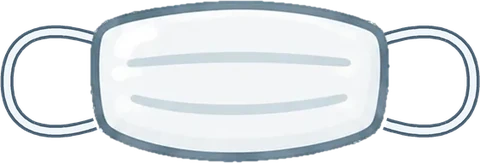
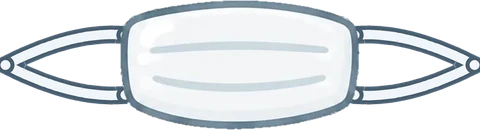
顔のかざり:舌・ひげの位置、まつげは目が開いたフロリに、マスクと眼帯のひも(未公開。ゲームには未反映)

Changed region(s): [[0.0, 0.0, 0.5, 1.0], [0.5312, 0.0, 1.0, 1.0]]

diff --git a/tools/illust/export.py b/tools/illust/export.py
@@ -67,9 +67,10 @@ THR = 244
 PAD = 10
 # 左右1組の かざりの、2つの間のあき(1つの はば に対する割合)。目や ほっぺの位置に合わせて、あけなおす
 GAPS = {"fp_spiral": 0.82, "fp_hearteyes": 0.75, "fp_lashes": 0.75, "fp_freckles": 1.8, "fp_whiskers": 1.53}
-STRAPS = {"fp_mask"}  # マスクに、耳ひもを つける
+ANCHORS = {}  # ひもを つけた絵の、「もとの絵の中心」の場所(割合)。ゲームで位置をきめるとき使う(assets/illust/fp_anchor.json)
 MAXSIDE = 160
-MAXSIDE_FACE = 480  # 顔のかざり(fp_)は、横長の組もあるので、大きめに
+MAXSIDE_FACE = 480
+MAXSIDE_WIDE = {"fp_eyepatch": 900}  # ひもで、横に長い絵  # 顔のかざり(fp_)は、横長の組もあるので、大きめに
 
 
 def boxes_of(name, im):
@@ -172,44 +173,75 @@ def respace(img, gap_ratio):
     return out
 
 
-def add_straps(img, spread=0.30):
-    """マスクの両わきに、耳ひも(ふくらんだ輪)を つける。マスクの本体は、ひもの上にのせる"""
+def _bez(p0, c1, c2, p3, n=40):
+    pts = []
+    for i in range(n + 1):
+        t = i / n
+        pts.append(tuple((1 - t) ** 3 * p0[j] + 3 * (1 - t) ** 2 * t * c1[j] + 3 * (1 - t) * t * t * c2[j] + t ** 3 * p3[j] for j in range(2)))
+    return pts
+
+
+def _strap_lines(canvas, paths, k, W):
+    """ひも(線の色のふち+うすい色の中)を、paths(点の列)にそって、描く。太さは、絵の はば(W)に合わせる"""
     from PIL import ImageDraw
-    k = 4  # 大きく描いて、縮める(なめらかに)
-    W, H = img.size
-    side = int(W * spread)
-    canvas = Image.new("RGBA", ((W + 2 * side) * k, H * k), (0, 0, 0, 0))
     d = ImageDraw.Draw(canvas)
+    wo, wi = 0.075 * W * k, 0.04 * W * k
+    for path in paths:
+        d.line(path, fill=OUTLINE + (255,), width=int(wo), joint="curve")
+    for path in paths:
+        d.line(path, fill=(240, 245, 249, 255), width=int(wi), joint="curve")
+    for path in paths:  # 先を丸く
+        for x, y in (path[0], path[-1]):
+            d.ellipse((x - wo / 2, y - wo / 2, x + wo / 2, y + wo / 2), fill=OUTLINE + (255,))
+            d.ellipse((x - wi / 2, y - wi / 2, x + wi / 2, y + wi / 2), fill=(240, 245, 249, 255))
 
-    def bez(p0, c1, c2, p3, n=40):
-        pts = []
-        for i in range(n + 1):
-            t = i / n
-            pts.append(tuple((1 - t) ** 3 * p0[j] + 3 * (1 - t) ** 2 * t * c1[j] + 3 * (1 - t) * t * t * c2[j] + t ** 3 * p3[j] for j in range(2)))
-        return pts
 
+def strap_mask(img, reach=0.5):
+    """マスクの両わきに、耳(ヘルメットのわき)まで のびる、耳ひもを つける(上と下の角から、耳の1点へ。「<」の形)。本体は、ひもの上"""
+    k = 4
+    W, H = img.size
+    L = int(W * reach)
+    canvas = Image.new("RGBA", ((W + 2 * L) * k, H * k), (0, 0, 0, 0))
+    paths = []
     for sign in (-1, 1):
-        ex = (side + (W if sign > 0 else 0) + (-6 if sign > 0 else 6)) * k  # マスクのふちの すこし内がわから出る
-        sx = sign
-        top, bot, mid = H * 0.24 * k, H * 0.76 * k, H * 0.5 * k
-        out = side * k * 0.98
-        path = bez((ex, top), (ex + sx * out * 0.55, top - H * 0.10 * k), (ex + sx * out, mid - H * 0.30 * k), (ex + sx * out, mid))
-        path += bez((ex + sx * out, mid), (ex + sx * out, mid + H * 0.30 * k), (ex + sx * out * 0.55, bot + H * 0.10 * k), (ex, bot))
-        d.line(path, fill=OUTLINE + (255,), width=int(15 * k), joint="curve")
-    for sign in (-1, 1):
-        pass
-    # 中のしろい線(ひもの色)を、同じ道すじで、細く かさねる
-    for sign in (-1, 1):
-        ex = (side + (W if sign > 0 else 0) + (-6 if sign > 0 else 6)) * k
-        sx = sign
-        top, bot, mid = H * 0.24 * k, H * 0.76 * k, H * 0.5 * k
-        out = side * k * 0.98
-        path = bez((ex, top), (ex + sx * out * 0.55, top - H * 0.10 * k), (ex + sx * out, mid - H * 0.30 * k), (ex + sx * out, mid))
-        path += bez((ex + sx * out, mid), (ex + sx * out, mid + H * 0.30 * k), (ex + sx * out * 0.55, bot + H * 0.10 * k), (ex, bot))
-        d.line(path, fill=(240, 245, 249, 255), width=int(8 * k), joint="curve")
-    canvas = canvas.resize((W + 2 * side, H), Image.LANCZOS)
-    canvas.alpha_composite(img, (side, 0))
-    return canvas
+        edge = (L + (W - 8 if sign > 0 else 8)) * k
+        ear = (edge + sign * (L - 8) * k + sign * 8 * k, H * 0.5 * k)
+        top, bot = (edge, H * 0.27 * k), (edge, H * 0.73 * k)
+        paths.append(_bez(top, (edge + sign * L * 0.35 * k, H * 0.24 * k), (edge + sign * L * 0.7 * k, H * 0.36 * k), ear))
+        paths.append(_bez(bot, (edge + sign * L * 0.35 * k, H * 0.76 * k), (edge + sign * L * 0.7 * k, H * 0.64 * k), ear))
+    _strap_lines(canvas, paths, k, W)
+    canvas = canvas.resize((W + 2 * L, H), Image.LANCZOS)
+    canvas.alpha_composite(img, (L, 0))
+    return canvas, (0.5, 0.5)
+
+
+def strap_eyepatch(img, left=2.4, right=0.6, rise=0.75):
+    """眼帯に、ひもを つける:右(画面の右がわ)は、耳へ。左は、ひたいを ななめに わたって、反対がわの耳へ。
+    戻り値の2つ目は、眼帯の中心が、絵のどこ(はば・高さの割合)にあるか"""
+    k = 4
+    W, H = img.size
+    Ll, Lr, Up = int(W * left), int(W * right), int(W * rise)
+    Wc, Hc = W + Ll + Lr, H + Up
+    canvas = Image.new("RGBA", (Wc * k, Hc * k), (0, 0, 0, 0))
+    px, py = Ll, Up  # 眼帯のおき場所(左上)
+    cx, cy = (px + W / 2) * k, (py + H / 2) * k
+    paths = []
+    # 右: 眼帯の右上と右下から、耳へ(1点)
+    ex = (px + W + Lr - 6) * k
+    ey = cy
+    paths.append(_bez(((px + W - 6) * k, (py + H * 0.30) * k), ((px + W + Lr * 0.4) * k, (py + H * 0.24) * k), ((px + W + Lr * 0.7) * k, cy - H * 0.06 * k), (ex, ey)))
+    paths.append(_bez(((px + W - 6) * k, (py + H * 0.70) * k), ((px + W + Lr * 0.4) * k, (py + H * 0.76) * k), ((px + W + Lr * 0.7) * k, cy + H * 0.06 * k), (ex, ey)))
+    # 左: 眼帯の左上から、ひたい(まゆげの上)を とおって、左の耳へ(はじめ ななめに のぼって、そのあと、ほぼ水平)
+    sx, sy = (px + 6) * k, (py + H * 0.22) * k
+    tx, ty = 6 * k, (Up * 0.30) * k
+    paths.append(_bez((sx, sy), (sx - Ll * 0.12 * k, sy - Up * 0.75 * k), (tx + Ll * 0.55 * k, ty - Up * 0.05 * k), (tx, ty), n=60))
+    _strap_lines(canvas, paths, k, W)
+    canvas = canvas.resize((Wc, Hc), Image.LANCZOS)
+    canvas.alpha_composite(img, (px, py))
+    return canvas, ((px + W / 2) / Wc, (py + H / 2) / Hc)
+
+
+STRAPS = {"fp_mask": strap_mask, "fp_eyepatch": strap_eyepatch}  # ひもを つける
 
 
 def main():
@@ -230,12 +262,18 @@ def main():
             if slug in GAPS:
                 it = respace(it, GAPS[slug])
             if slug in STRAPS:
-                it = add_straps(it)
-            side = MAXSIDE_FACE if slug.startswith("fp_") else MAXSIDE
+                it, ANCHORS[slug] = STRAPS[slug](it)
+            side = MAXSIDE_WIDE.get(slug, MAXSIDE_FACE if slug.startswith("fp_") else MAXSIDE)
             it.thumbnail((side, side), Image.LANCZOS)
             path = os.path.join(OUT, slug + ".webp")
             it.save(path, "WEBP", quality=90, method=6)
             total += os.path.getsize(path)
+    if ANCHORS:
+        import json
+        meta = os.path.join(OUT, "fp_anchor.json")
+        old = json.load(open(meta, encoding="utf8")) if os.path.exists(meta) else {}
+        old.update({k: [round(v[0], 4), round(v[1], 4)] for k, v in ANCHORS.items()})
+        json.dump(old, open(meta, "w", encoding="utf8"), ensure_ascii=False, indent=1)
     print("書き出し", sum(len(v) for v in MANIFEST.values()), "個,", round(total / 1024), "KB")
 
 

diff --git a/docs/decisions.md b/docs/decisions.md
@@ -802,3 +802,4 @@ scheme.md の「未定の事項」を決めたらここに追記する。
 - 一覧の1行を押すと、問題・選択肢・**正解の印(✅)・解説**のカードが開く(図鑑のカードと同じ作り。カードを押すと閉じる)。図鑑のカードは答えをのせないが、ノートは**まちがえた問題だけ**答えを見せる。
 - 上の吹き出しは、まちがいが多い分類(理系・文系・ひらめき)を一言で知らせる(ある分類が2問以上で、半分より多いとき)。
 - 「📖 ぜんぶ 復習する」で、今までの復習モードを始める(ノートが空のときは出さない)。正解すると、ノートからも消える。
+- (その60のつづき)利用者の指示で見本を直した:**舌ぺろ**は少し下、**ひげ**(ちょびひげ・猫のひげ)は少し上。**まつげは、「目が開いたフロリ」(`wave_surprised.png`。目は x≈34%・69%、高さ y≈25.6〜33.6%)に合わせた**(目のまわりのかざりは、ポーズ(目の形)で位置が少し変わる:にっこり=目の線 y≈28〜31%・まゆげ y≈21%、目が開いた=目の上 y≈25.6%)。**マスクの耳ひも**は、輪(「( )」)をやめて、上と下の角から、耳(ヘルメットのわき)の1点へ のびる「<」の形にした(`strap_mask`)。**眼帯にも ひも**を つけた(`strap_eyepatch`:右は耳へ、左は ひたいを ななめに わたって 反対の耳へ。眼帯の中心の場所は `assets/illust/fp_anchor.json` に書き出す)。ひもの太さは、絵の はば に合わせる。
